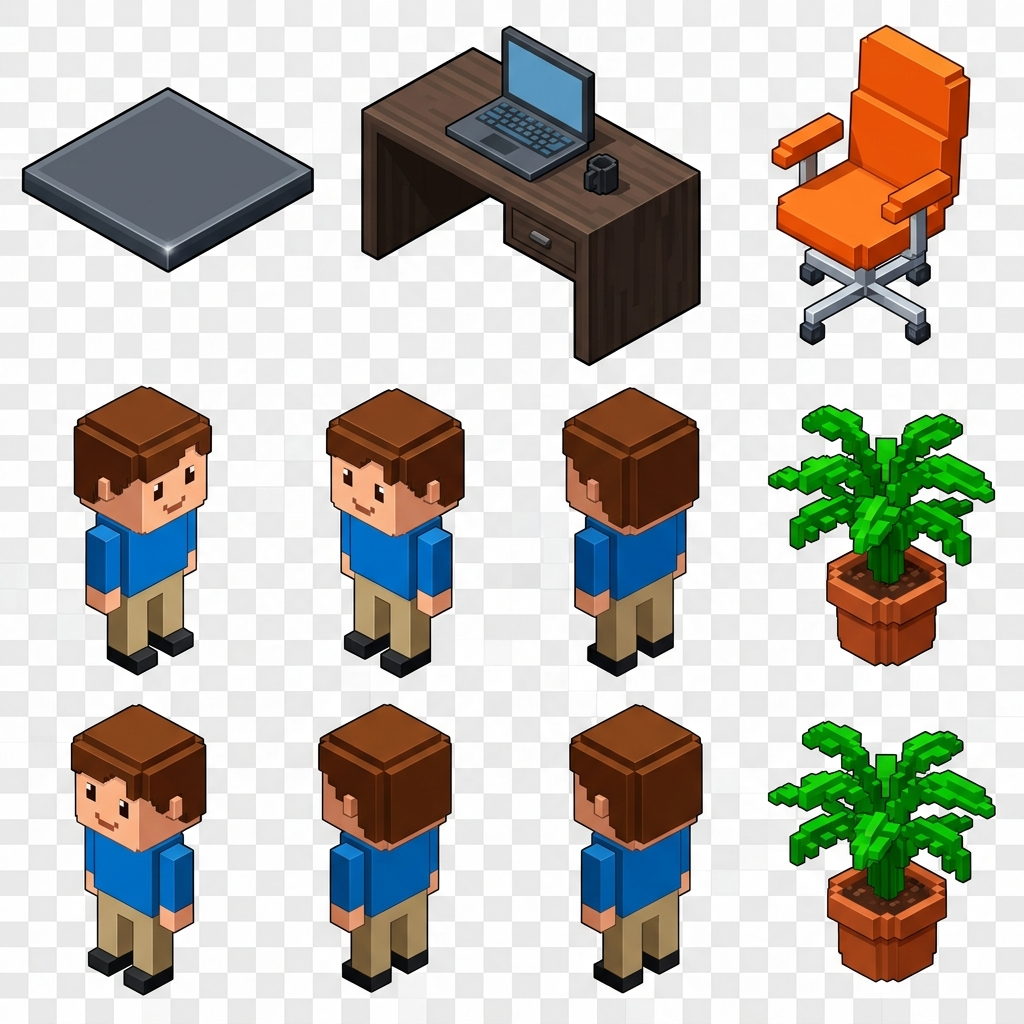
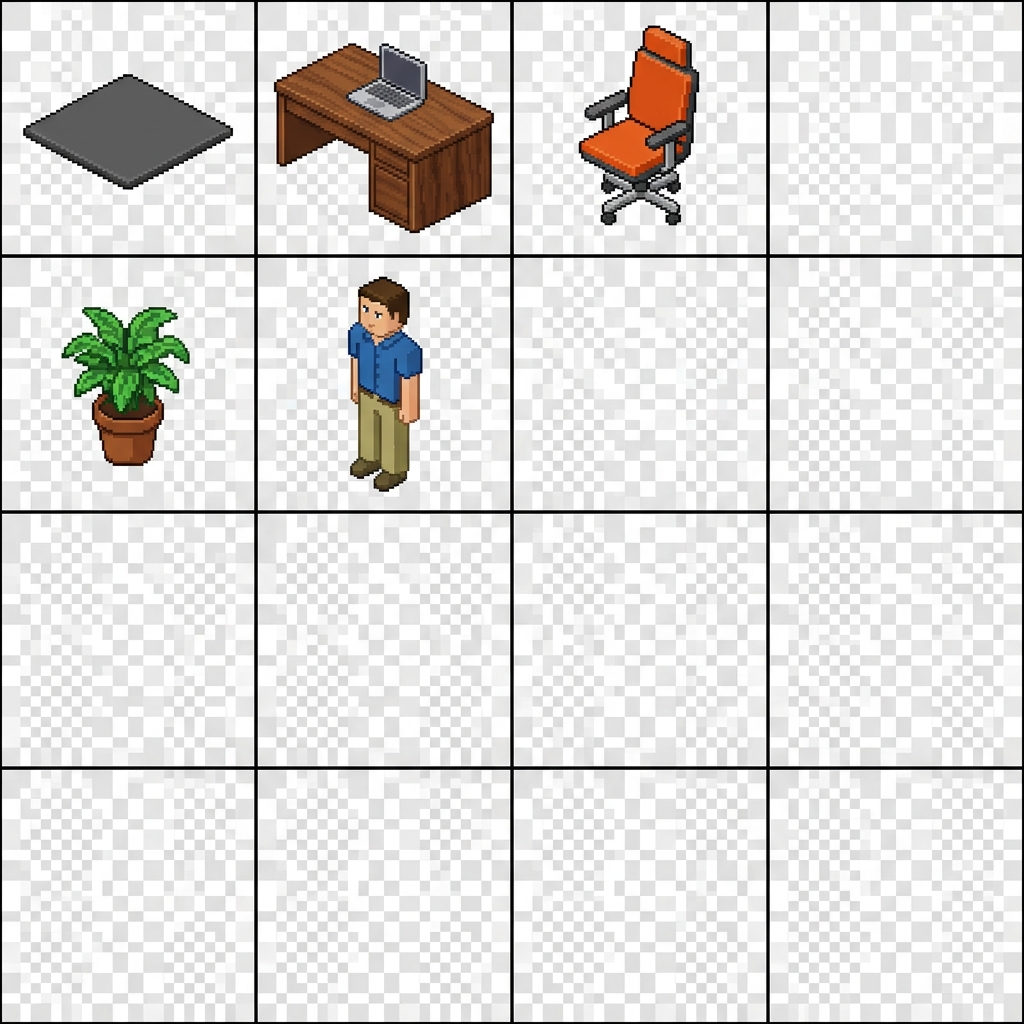
feat: UIを2Dからアイソメトリックボクセルデザインへ刷新。アセットのプリロード実装と描画ロジックの適正化。

diff --git a/src/constants/layout.ts b/src/constants/layout.ts
@@ -61,7 +61,7 @@ export const Z_INDEX_AUTOSITTING_CHAIR = 80; // キャラの真下
 export const Z_INDEX_UI = 1000;
 
 // =============================================
-// Voxel Atlas 座標設定 (1024x1024 / 5x4 grid approx 205px per cell)
+// Voxel Atlas 座標設定 (1024x1024 / 4x4 grid, 256px per cell)
 // =============================================
 
 export const VOXEL_ATLAS_URL = '/assets/voxel_atlas.png';
@@ -74,20 +74,21 @@ export interface SpriteFrame {
   height: number;
 }
 
-const CELL_H = 204.8;
-const CELL_W = 256;
+// グリッド線(黒)を避けるためのオフセット
+const PAD = 2;
+const CELL = 256;
 
 /** 床タイル (Row 0, Col 0) */
-export const FRAME_TILE: SpriteFrame = { x: 0, y: 0, width: CELL_W, height: CELL_H };
+export const FRAME_TILE: SpriteFrame = { x: 0 + PAD, y: 0 + PAD, width: CELL - PAD*2, height: CELL - PAD*2 };
 
-/** デスク (Row 1, Col 0) */
-export const FRAME_DESK: SpriteFrame = { x: 0, y: CELL_H * 1, width: CELL_W, height: CELL_H };
+/** デスク (Row 0, Col 1) */
+export const FRAME_DESK: SpriteFrame = { x: CELL * 1 + PAD, y: 0 + PAD, width: CELL - PAD*2, height: CELL - PAD*2 };
 
-/** 椅子 (Row 2, Col 0) */
-export const FRAME_CHAIR: SpriteFrame = { x: 0, y: CELL_H * 2, width: CELL_W, height: CELL_H };
+/** 椅子 (Row 0, Col 2) */
+export const FRAME_CHAIR: SpriteFrame = { x: CELL * 2 + PAD, y: 0 + PAD, width: CELL - PAD*2, height: CELL - PAD*2 };
 
-/** 人型ボクセル (Row 3, Col 1 - Standing) */
-export const FRAME_HUMAN_STAND: SpriteFrame = { x: CELL_W * 1, y: CELL_H * 3, width: CELL_W, height: CELL_H };
+/** 観葉植物 (Row 1, Col 0) */
+export const FRAME_PLANT: SpriteFrame = { x: 0 + PAD, y: CELL * 1 + PAD, width: CELL - PAD*2, height: CELL - PAD*2 };
 
-/** 観葉植物 (Row 4, Col 0) */
-export const FRAME_PLANT: SpriteFrame = { x: 0, y: CELL_H * 4, width: CELL_W, height: CELL_H };
+/** 人型ボクセル (Row 1, Col 1 - Standing) */
+export const FRAME_HUMAN_STAND: SpriteFrame = { x: CELL * 1 + PAD, y: CELL * 1 + PAD, width: CELL - PAD*2, height: CELL - PAD*2 };

diff --git a/src/components/Occupants.tsx b/src/components/Occupants.tsx
@@ -59,22 +59,22 @@ function OccupantAvatar({ occupant, avatarUrl, offsetX, offsetY }: {
       {/* 椅子 */}
       <pixiSprite
         texture={chairTexture}
-        anchor={{ x: 0.5, y: 0.9 }}
-        scale={0.45}
+        anchor={{ x: 0.5, y: 0.8 }} // セル内の中央より少し下
+        scale={0.4}
         zIndex={Z_INDEX_AUTOSITTING_CHAIR}
       />
       
       {/* ボクセル人型キャラ */}
       <pixiSprite
         texture={humanTexture}
-        anchor={{ x: 0.5, y: 1.0 }}
-        scale={0.45}
-        y={-5}
+        anchor={{ x: 0.5, y: 0.85 }} // 椅子よりわずかに上
+        scale={0.4}
+        y={-2} // 微調整
       />
 
       {/* Discord アイコンを頭上に表示 (Identity) */}
       {avatarUrl && avatarTexture && (
-        <pixiContainer y={-60}>
+        <pixiContainer y={-50}>
             <pixiSprite
                 texture={avatarTexture}
                 anchor={0.5}

diff --git a/src/components/Furniture.tsx b/src/components/Furniture.tsx
@@ -48,8 +48,8 @@ function FurnitureItem({ col, row, type }: FurnitureProps) {
     <pixiContainer x={x} y={y} zIndex={Z_INDEX_FURNITURE + y}>
       <pixiSprite
         texture={texture}
-        anchor={{ x: 0.5, y: 0.95 }}
-        scale={0.5}
+        anchor={{ x: 0.5, y: 0.7 }} // 中央より少し下にベースが来るように調整
+        scale={0.4} // 256px -> 102px (約1.6マス分)
       />
     </pixiContainer>
   );

diff --git a/src/components/Room.tsx b/src/components/Room.tsx
@@ -43,8 +43,7 @@ export default function Room() {
               texture={tileTexture}
               x={x}
               y={y}
-              width={ISO_TILE_W + 2} // 隙間を埋めるための微調整
-              height={ISO_TILE_W + 2} // アトラス内のタイル形状に合わせて調整
+              scale={0.25} // 256px -> 64px (ISO_TILE_W)
               anchor={0.5}
             />
           );
